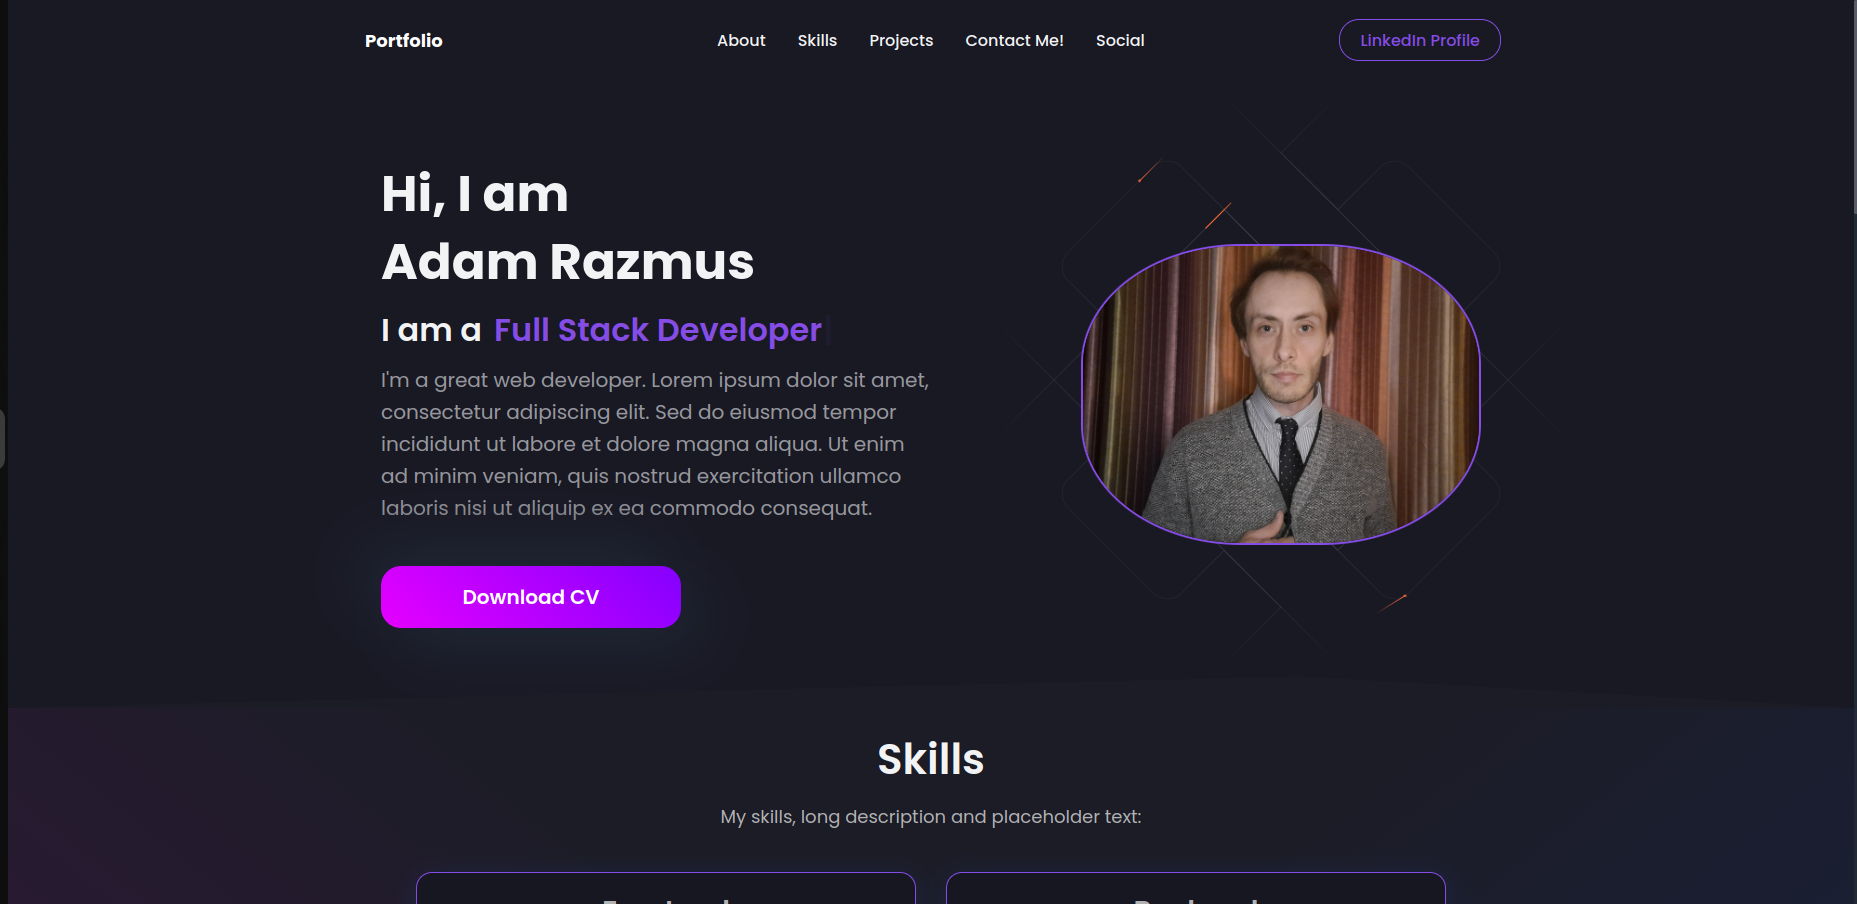
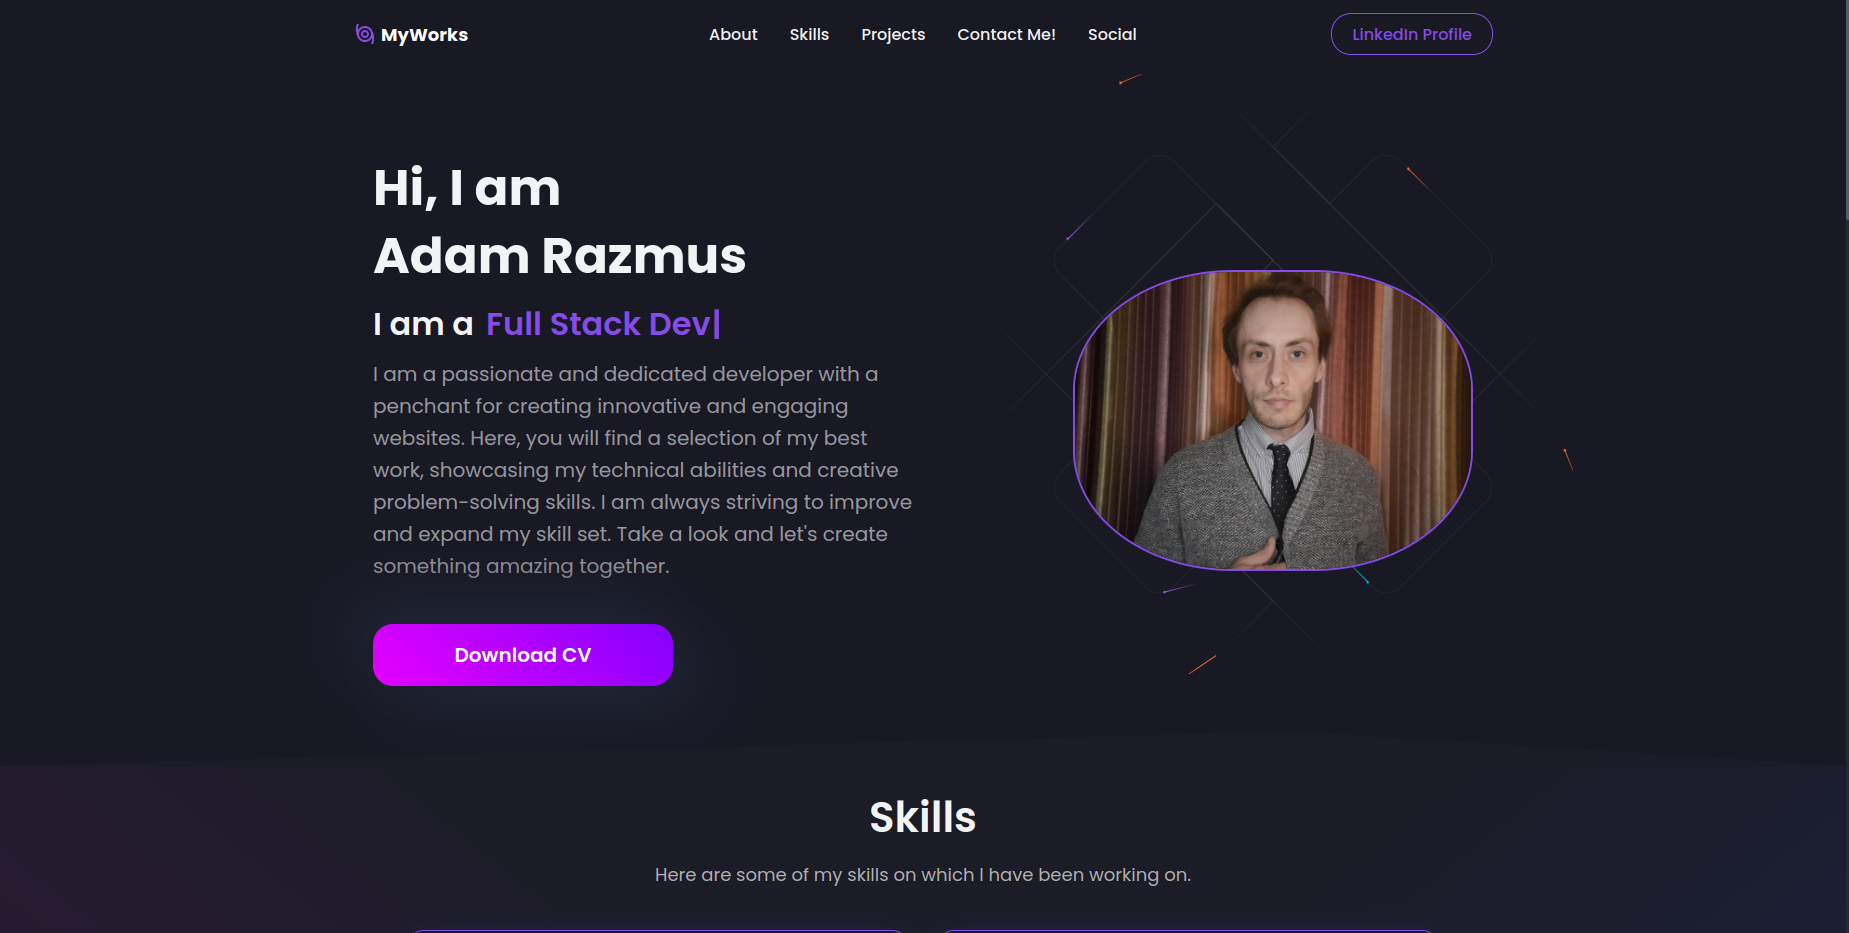
deploy -v

diff --git a/src/Components/Footer/Footer.jsx b/src/Components/Footer/Footer.jsx
@@ -17,10 +17,11 @@ import {personalInfo} from '../../assets/content/info';
 export default function Footer() {
   const phonePrompt = 'phone';
   const emailPrompt = 'email';
-  const handlePopup = async (media)=> {
+
+  const handlePopUp = async (media)=> {
+    const contact = media === phonePrompt? personalInfo.phone : personalInfo.email;
+    const message = `${contact} has been copied to the clipboard`;
     try {
-      const contact = media === 'phone'? personalInfo.phone : personalInfo.email;
-      const message = `${contact} has been copied to the clipboard`;
       await navigator.clipboard.writeText(contact);
       alert(message);
     }catch(error) {
@@ -41,8 +42,8 @@ export default function Footer() {
         <SocialMediaIcons>
           <SocialMediaIcon href={personalInfo.linkedIn} target="display"><LinkedInIcon /></SocialMediaIcon>
           <SocialMediaIcon href={personalInfo.github} target="display"><GitHubIcon /></SocialMediaIcon>
-          <SocialMediaIcon onClick={()=> handlePopup(emailPrompt)} target="display"><EmailIcon /></SocialMediaIcon>
-          <SocialMediaIcon onClick={()=> handlePopup(phonePrompt)} target="display"><PhoneIcon /></SocialMediaIcon>
+          <SocialMediaIcon onClick={()=> handlePopUp(emailPrompt)} target="display"><EmailIcon /></SocialMediaIcon>
+          <SocialMediaIcon onClick={()=> handlePopUp(phonePrompt)} target="display"><PhoneIcon /></SocialMediaIcon>
         </SocialMediaIcons>
         <Copyright>
           &copy; 2023 Adam Razmus. All rights reserved.

diff --git a/src/PageElements/Skills/Skills.jsx b/src/PageElements/Skills/Skills.jsx
@@ -10,11 +10,12 @@ import {Container, Wrapper, Title, Desc, SkillsContainer,
 
 
 export default function Skills() {
+  const descText = 'Here are some of my skills on which I have been working on.';
   return (
     <Container id="skills">
       <Wrapper>
         <Title>Skills</Title>
-        <Desc>My skills, long description and placeholder text:
+        <Desc>{descText}
         </Desc>
         <SkillsContainer>
           {skills.map((skill) => (
